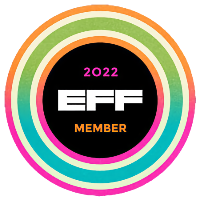
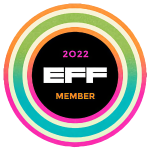
Fixing EFF footer image

diff --git a/_includes/footer.html b/_includes/footer.html
@@ -19,7 +19,7 @@
       <div class="footer-col">
         <p>rebello.dev © 2021</p>
       </div>
-      <div class="footer-col" width="50%" height="50%">
+      <div class="footer-col">
         <a href="https://www.eff.org/"><img src="/assets/member-badge-2022b.png"></a>
       </div>
     </div>

diff --git a/assets/css/style.scss b/assets/css/style.scss
@@ -4,4 +4,5 @@
 
 @import
   "minima/skins/{{ site.minima.skin | default: 'dark' }}",
-  "minima/initialize";
+  "minima/initialize"
+  ;
